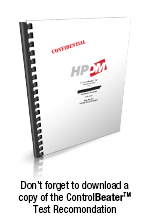
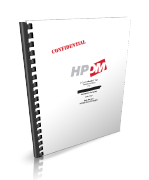
Unknown changes before starting Drip3

diff --git a/strategy/strategy.css b/strategy/strategy.css
@@ -342,7 +342,6 @@ nav h1 {
 .response-bottom-left p {
     font-family: 'Helvetica Neue Light Condensed',"Helvetica",sans-serif;
     font-size: 12px;
-    text-align: justify;
 }
 span.aside-title {
     font-family: "Helvetica Neue Light Bold Condensed","Helvetica",sans-serif;
@@ -431,7 +430,7 @@ div.wpcf7-validation-errors {
     float: left;
     width: 420px;
     height: 310px;
-    padding: 25px 0 0 35px;
+    padding: 23px 0 0 35px;
 }
 .calc-list h3 {
     color: #d01f2e;
@@ -532,7 +531,7 @@ div.wpcf7-validation-errors {
     position: relative;
     float: left;
     width: 270px;
-    padding: 38px 0 0 7px;
+    padding: 37px 0 0 7px;
 }
 .she-points {
     float: left;

diff --git a/copy-calculator.php b/copy-calculator.php
@@ -38,30 +38,30 @@
         <div class="calc-list">
             <h3>Check words used in your campaigns then hit calculate</h3>
             <ul id="calc-ul-one">
-                <li><input class="mc-checkbox pos" type="checkbox" value="Free" data="">Free</li>
-                <li><input class="mc-checkbox pos" type="checkbox" value="Understand" data="">Understand</li>
-                <li><input class="mc-checkbox pos" type="checkbox" value="Proven" data="">Proven</li>
-                <li><input class="mc-checkbox pos" type="checkbox" value="Health" data="">Health</li>
-                <li><input class="mc-checkbox pos" type="checkbox" value="Easy" data="">Easy</li>
-                <li><input class="mc-checkbox pos" type="checkbox" value="Guarantee" data="">Guarantee</li>
-                <li><input class="mc-checkbox pos" type="checkbox" value="Complimentary" data="">Complimentary</li>
-                <li><input class="mc-checkbox pos" type="checkbox" value="Money" data="">Money</li>
-                <li><input class="mc-checkbox pos" type="checkbox" value="Safety" data="">Safety</li>
-                <li><input class="mc-checkbox pos" type="checkbox" value="Save" data="">Save</li>
-                <li><input class="mc-checkbox pos" type="checkbox" value="New" data="">New</li>
+                <li><input class="mc-checkbox pos" type="checkbox">Free</li>
+                <li><input class="mc-checkbox pos" type="checkbox">Understand</li>
+                <li><input class="mc-checkbox neg" type="checkbox">Death</li>
+                <li><input class="mc-checkbox pos" type="checkbox">Proven</li>
+                <li><input class="mc-checkbox neg" type="checkbox">Sell</li>
+                <li><input class="mc-checkbox neg" type="checkbox">Pay</li>
+                <li><input class="mc-checkbox pos" type="checkbox">Health</li>
+                <li><input class="mc-checkbox neg" type="checkbox">Try</li>
+                <li><input class="mc-checkbox pos" type="checkbox">Safety</li>
+                <li><input class="mc-checkbox neg" type="checkbox">Must</li>
+                <li><input class="mc-checkbox neg" type="checkbox">Obligation</li>
             </ul>
             <ul id="calc-ul-two">
                 <li><input class="mc-checkbox pos" type="checkbox">Love</li>
+                <li><input class="mc-checkbox pos" type="checkbox">Complimentary</li>
                 <li><input class="mc-checkbox pos" type="checkbox">Discover</li>
+                <li><input class="mc-checkbox neg" type="checkbox">Hurt</li>
                 <li><input class="mc-checkbox pos" type="checkbox">Right</li>
-                <li><input class="mc-checkbox pos" type="checkbox">Results</li>
-                <li><input class="mc-checkbox pos" type="checkbox">Truth</li>
-                <li><input class="mc-checkbox pos" type="checkbox">Comfort</li>
-                <li><input class="mc-checkbox pos" type="checkbox">Proud</li>
                 <li><input class="mc-checkbox pos" type="checkbox">Profit</li>
-                <li><input class="mc-checkbox pos" type="checkbox">Deserve</li>
                 <li><input class="mc-checkbox pos" type="checkbox">Happy</li>
-                <li><input class="mc-checkbox pos" type="checkbox">Trust</li>
+                <li><input class="mc-checkbox neg" type="checkbox">Failure</li>
+                <li><input class="mc-checkbox neg" type="checkbox">Difficult</li>
+                <li><input class="mc-checkbox pos" type="checkbox">Save</li>
+                <li><input class="mc-checkbox pos" type="checkbox">New</li>
             </ul>
 
             <ul id="calc-ul-three">
@@ -70,24 +70,24 @@
                 <li><input class="mc-checkbox pos" type="checkbox">Vital</li>
                 <li><input class="mc-checkbox pos" type="checkbox">Approve</li>
                 <li><input class="mc-checkbox neg" type="checkbox">Cost</li>
-                <li><input class="mc-checkbox neg" type="checkbox">Pay</li>
                 <li><input class="mc-checkbox neg" type="checkbox">Contract</li>
                 <li><input class="mc-checkbox neg" type="checkbox">Sign</li>
-                <li><input class="mc-checkbox neg" type="checkbox">Try</li>
                 <li><input class="mc-checkbox neg" type="checkbox">Worry</li>
                 <li><input class="mc-checkbox neg" type="checkbox">Loss</li>
+                <li><input class="mc-checkbox pos" type="checkbox">Money</li>
+                <li><input class="mc-checkbox pos" type="checkbox">Truth</li>
             </ul>
 
             <ul id="calc-ul-four">
                 <li><input class="mc-checkbox neg" type="checkbox">Lose</li>
-                <li><input class="mc-checkbox neg" type="checkbox">Hurt</li>
+                <li><input class="mc-checkbox neg" type="checkbox">Liability</li>
                 <li><input class="mc-checkbox neg" type="checkbox">Buy</li>
-                <li><input class="mc-checkbox neg" type="checkbox">Must</li>
-                <li><input class="mc-checkbox neg" type="checkbox">Death</li>
+                <li><input class="mc-checkbox pos" type="checkbox">Trust</li>
+                <li><input class="mc-checkbox pos" type="checkbox">Easy</li>
                 <li><input class="mc-checkbox neg" type="checkbox">Bad</li>
-                <li><input class="mc-checkbox neg" type="checkbox">Sell</li>
                 <li><input class="mc-checkbox neg" type="checkbox">Sold</li>
                 <li><input class="mc-checkbox neg" type="checkbox">Price</li>
+                <li><input class="mc-checkbox pos" type="checkbox">Guarantee</li>
                 <li><input class="mc-checkbox neg" type="checkbox">Decision</li>
                 <li><input class="mc-checkbox neg" type="checkbox">Hard</li>
             </ul>

diff --git a/response.php b/response.php
@@ -50,9 +50,7 @@
             following:
         </p>
 
-            <div class="check-div"> <img src="../wp-content/themes/hpdm/strategy/imgs/checkmark.png"><p class="checkmark"> HPDM's ControlBeater
-            Execution beat the mail
-            control by 62%.</p></div>
+            <div class="check-div"> <img src="../wp-content/themes/hpdm/strategy/imgs/checkmark.png"><p class="checkmark"> HPDM's ControlBeater Execution program performance by 62%</p></div>
             <div class="check-div"><img src="../wp-content/themes/hpdm/strategy/imgs/checkmark.png"><p class="checkmark">HPDM tested 6 mail packages
             and won 5 of 6 times; 3 tests
             doubled response.</p></div>
@@ -76,9 +74,10 @@
         <span>HPDM Chief Strategist Legendary</span><br>
         <span>DM Marketer & Harvard MBA</span>
         <p>
-            Since 1986, Bob Hacker has specialized in new customer acquisition and built one of the most successful direct marketing agencies on the planet.  Bob sold his agency and retired in 2002, but is now helping large mail marketers by acting as Chief Strategist for a direct marketing services organization (High Performance Direct Marketing). Bob served on the editorial board of Target Marketing magazine and was a frequent writer and speaker on direct marketing issues.  He is a graduate of The Harvard Business School and the University of Washington. What follows is an excerpt  from his book showing just one of his many formulas for rational planning of direct mail marketing campaigns.
+            Since 1986, Bob Hacker has specialized in new customer acquisition and built one of the most successful direct marketing agencies on the planet.  Bob sold his agency and retired in 2002, but is now helping large mail marketers by acting as Chief Strategist for a direct marketing services organization (High Performance Direct Marketing). Bob served on the editorial board of Target Marketing magazine and was a frequent writer and speaker on direct marketing issues.  He is a graduate of The Harvard Business School and the University of Washington.
         </p>
         <img src="../wp-content/themes/hpdm/strategy/imgs/dont-forget.png">
+        <p style="font-size: 11px; text-align:center;width: 137px;padding-left:10px;">Don't forget to download a copy of the winning Control<span style="font-weight: bold;">Beater&#153;</span> Test Recommendation</p>
         <a class="download-btn" href="http://hpdm.crosshatchcreative.com/wp-content/uploads/2014/06/hpdm-rec.pdf" target="_blank">Download</a>
     </aside>
 
